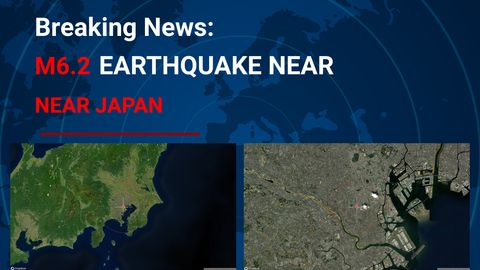
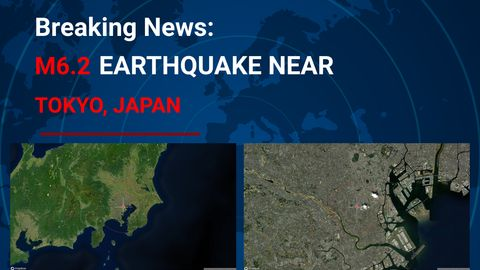
Update newsletter sample map image to Tokyo, Japan

Changed region(s): [[0.0625, 0.3556, 0.375, 0.4444]]

diff --git a/index.html b/index.html
@@ -20062,7 +20062,7 @@
                 const estNow = new Date(now.getTime() + (now.getTimezoneOffset() * 60000) + (estOffset * 60000));
                 
                 // Calculate target date: one week from last git push (December 23, 2025) at 7:45 PM EST
-                const lastPushDate = new Date('2026-02-18T19:45:00-05:00'); // February 18, 2026 7:45 PM EST // February 18, 2026 7:45 PM EST // February 18, 2026 7:45 PM EST // February 18, 2026 7:45 PM EST // February 18, 2026 7:45 PM EST // February 18, 2026 7:45 PM EST // February 18, 2026 7:45 PM EST // February 18, 2026 7:45 PM EST // February 18, 2026 7:45 PM EST // February 18, 2026 7:45 PM EST // February 18, 2026 7:45 PM EST // February 16, 2026 7:45 PM EST // February 16, 2026 7:45 PM EST // February 16, 2026 7:45 PM EST // February 1, 2026 7:45 PM EST // February 1, 2026 7:45 PM EST // February 1, 2026 7:45 PM EST // February 1, 2026 7:45 PM EST // February 1, 2026 7:45 PM EST // February 1, 2026 7:45 PM EST // February 1, 2026 7:45 PM EST // February 1, 2026 7:45 PM EST // February 1, 2026 7:45 PM EST // January 15, 2026 7:45 PM EST // January 15, 2026 7:45 PM EST // January 15, 2026 7:45 PM EST // January 15, 2026 7:45 PM EST // January 15, 2026 7:45 PM EST // January 15, 2026 7:45 PM EST // January 14, 2026 7:45 PM EST // January 14, 2026 7:45 PM EST // January 14, 2026 7:45 PM EST // January 14, 2026 7:45 PM EST // January 14, 2026 7:45 PM EST // January 14, 2026 7:45 PM EST // January 14, 2026 7:45 PM EST // January 14, 2026 7:45 PM EST // January 14, 2026 7:45 PM EST // January 14, 2026 7:45 PM EST // January 14, 2026 7:45 PM EST // January 12, 2026 7:45 PM EST // January 12, 2026 7:45 PM EST // January 12, 2026 7:45 PM EST // January 12, 2026 7:45 PM EST // January 12, 2026 7:45 PM EST // January 12, 2026 7:45 PM EST // January 12, 2026 7:45 PM EST // January 12, 2026 7:45 PM EST // January 12, 2026 7:45 PM EST // January 12, 2026 7:45 PM EST // January 12, 2026 7:45 PM EST // January 12, 2026 7:45 PM EST // January 12, 2026 7:45 PM EST // January 12, 2026 7:45 PM EST // January 12, 2026 7:45 PM EST // January 12, 2026 7:45 PM EST // January 12, 2026 7:45 PM EST // January 12, 2026 7:45 PM EST // January 11, 2026 7:45 PM EST // January 11, 2026 7:45 PM EST // January 11, 2026 7:45 PM EST // January 11, 2026 7:45 PM EST // January 11, 2026 7:45 PM EST // January 11, 2026 7:45 PM EST // January 11, 2026 7:45 PM EST // January 11, 2026 7:45 PM EST // January 11, 2026 7:45 PM EST // January 11, 2026 7:45 PM EST // January 11, 2026 7:45 PM EST // January 11, 2026 7:45 PM EST // January 11, 2026 7:45 PM EST // January 11, 2026 7:45 PM EST // January 11, 2026 7:45 PM EST // January 11, 2026 7:45 PM EST // January 11, 2026 7:45 PM EST // January 11, 2026 7:45 PM EST // January 11, 2026 7:45 PM EST // January 11, 2026 7:45 PM EST // January 11, 2026 7:45 PM EST // January 11, 2026 7:45 PM EST // January 11, 2026 7:45 PM EST // January 11, 2026 7:45 PM EST // January 11, 2026 7:45 PM EST // January 10, 2026 7:45 PM EST // January 10, 2026 7:45 PM EST // January 10, 2026 7:45 PM EST // January 10, 2026 7:45 PM EST // January 10, 2026 7:45 PM EST // January 10, 2026 7:45 PM EST // January 10, 2026 7:45 PM EST // January 10, 2026 7:45 PM EST // January 10, 2026 7:45 PM EST // January 10, 2026 7:45 PM EST // January 10, 2026 7:45 PM EST // January 10, 2026 7:45 PM EST // January 10, 2026 7:45 PM EST // January 10, 2026 7:45 PM EST // January 10, 2026 7:45 PM EST // January 10, 2026 7:45 PM EST // January 10, 2026 7:45 PM EST // January 10, 2026 7:45 PM EST // January 10, 2026 7:45 PM EST // January 10, 2026 7:45 PM EST // January 10, 2026 7:45 PM EST // January 10, 2026 7:45 PM EST // January 10, 2026 7:45 PM EST // January 9, 2026 7:45 PM EST // January 5, 2026 7:45 PM EST // January 5, 2026 7:45 PM EST // January 5, 2026 7:45 PM EST // January 5, 2026 7:45 PM EST // January 5, 2026 7:45 PM EST // January 5, 2026 7:45 PM EST // January 5, 2026 7:45 PM EST // January 5, 2026 7:45 PM EST // January 5, 2026 7:45 PM EST // January 5, 2026 7:45 PM EST // January 5, 2026 7:45 PM EST // January 5, 2026 7:45 PM EST // January 5, 2026 7:45 PM EST // January 5, 2026 7:45 PM EST // January 4, 2026 7:45 PM EST // January 4, 2026 7:45 PM EST // January 4, 2026 7:45 PM EST // January 4, 2026 7:45 PM EST // January 4, 2026 7:45 PM EST // January 4, 2026 7:45 PM EST // January 4, 2026 7:45 PM EST // January 4, 2026 7:45 PM EST // January 4, 2026 7:45 PM EST // January 4, 2026 7:45 PM EST // January 4, 2026 7:45 PM EST // January 4, 2026 7:45 PM EST // January 4, 2026 7:45 PM EST // January 4, 2026 7:45 PM EST // January 4, 2026 7:45 PM EST // January 4, 2026 7:45 PM EST // January 4, 2026 7:45 PM EST // January 4, 2026 7:45 PM EST // January 4, 2026 7:45 PM EST // January 4, 2026 7:45 PM EST // January 4, 2026 7:45 PM EST // January 4, 2026 7:45 PM EST // January 4, 2026 7:45 PM EST // January 4, 2026 7:45 PM EST // January 4, 2026 7:45 PM EST // January 4, 2026 7:45 PM EST // January 4, 2026 7:45 PM EST // January 4, 2026 7:45 PM EST // January 4, 2026 7:45 PM EST // January 4, 2026 7:45 PM EST // January 4, 2026 7:45 PM EST // January 4, 2026 7:45 PM EST // January 4, 2026 7:45 PM EST // January 4, 2026 7:45 PM EST // January 4, 2026 7:45 PM EST // January 4, 2026 7:45 PM EST // January 4, 2026 7:45 PM EST // January 4, 2026 7:45 PM EST // January 4, 2026 7:45 PM EST // January 4, 2026 7:45 PM EST // January 4, 2026 7:45 PM EST // January 4, 2026 7:45 PM EST // January 4, 2026 7:45 PM EST // January 4, 2026 7:45 PM EST // January 4, 2026 7:45 PM EST // January 4, 2026 7:45 PM EST // January 4, 2026 7:45 PM EST // January 3, 2026 7:45 PM EST // January 3, 2026 7:45 PM EST // January 3, 2026 7:45 PM EST // January 3, 2026 7:45 PM EST // January 3, 2026 7:45 PM EST // January 3, 2026 7:45 PM EST // January 3, 2026 7:45 PM EST // January 3, 2026 7:45 PM EST // January 3, 2026 7:45 PM EST // January 3, 2026 7:45 PM EST // January 3, 2026 7:45 PM EST // January 3, 2026 7:45 PM EST // January 3, 2026 7:45 PM EST // January 3, 2026 7:45 PM EST // January 3, 2026 7:45 PM EST // January 3, 2026 7:45 PM EST // January 3, 2026 7:45 PM EST // January 3, 2026 7:45 PM EST // January 3, 2026 7:45 PM EST // January 3, 2026 7:45 PM EST // January 3, 2026 7:45 PM EST // January 3, 2026 7:45 PM EST // January 3, 2026 7:45 PM EST // January 3, 2026 7:45 PM EST // January 3, 2026 7:45 PM EST // January 3, 2026 7:45 PM EST // January 2, 2026 7:45 PM EST // January 2, 2026 7:45 PM EST // January 2, 2026 7:45 PM EST // January 2, 2026 7:45 PM EST // January 2, 2026 7:45 PM EST // January 2, 2026 7:45 PM EST // January 2, 2026 7:45 PM EST // January 2, 2026 7:45 PM EST // January 2, 2026 7:45 PM EST // December 25, 2025 7:45 PM EST // December 25, 2025 7:45 PM EST // December 25, 2025 7:45 PM EST // December 25, 2025 7:45 PM EST // December 25, 2025 7:45 PM EST // December 25, 2025 7:45 PM EST // December 25, 2025 7:45 PM EST // December 25, 2025 7:45 PM EST // December 25, 2025 7:45 PM EST // December 25, 2025 7:45 PM EST // December 25, 2025 7:45 PM EST // December 25, 2025 7:45 PM EST // December 25, 2025 7:45 PM EST // December 25, 2025 7:45 PM EST // December 25, 2025 7:45 PM EST // December 25, 2025 7:45 PM EST // December 25, 2025 7:45 PM EST // December 25, 2025 7:45 PM EST // December 25, 2025 7:45 PM EST // December 25, 2025 7:45 PM EST // December 25, 2025 7:45 PM EST // December 25, 2025 7:45 PM EST // December 25, 2025 7:45 PM EST // December 25, 2025 7:45 PM EST // December 25, 2025 7:45 PM EST // December 25, 2025 7:45 PM EST // December 25, 2025 7:45 PM EST // December 25, 2025 7:45 PM EST // December 25, 2025 7:45 PM EST // December 25, 2025 7:45 PM EST // December 25, 2025 7:45 PM EST // December 25, 2025 7:45 PM EST // December 25, 2025 7:45 PM EST // December 25, 2025 7:45 PM EST // December 24, 2025 7:45 PM EST // December 24, 2025 7:45 PM EST // December 24, 2025 7:45 PM EST // December 24, 2025 7:45 PM EST // December 24, 2025 7:45 PM EST // December 24, 2025 7:45 PM EST // December 24, 2025 7:45 PM EST // December 24, 2025 7:45 PM EST // December 24, 2025 7:45 PM EST // December 24, 2025 7:45 PM EST // December 24, 2025 7:45 PM EST // December 24, 2025 7:45 PM EST // December 24, 2025 7:45 PM EST // December 24, 2025 7:45 PM EST // December 24, 2025 7:45 PM EST // December 24, 2025 7:45 PM EST // December 24, 2025 7:45 PM EST // December 24, 2025 7:45 PM EST // December 24, 2025 7:45 PM EST // December 24, 2025 7:45 PM EST // December 24, 2025 7:45 PM EST // December 24, 2025 7:45 PM EST // December 24, 2025 7:45 PM EST // December 24, 2025 7:45 PM EST // December 24, 2025 7:45 PM EST // December 23, 2025 7:45 PM EST // December 23, 2025 7:45 PM EST // December 23, 2025 7:45 PM EST // December 23, 2025 7:45 PM EST // December 23, 2025 7:45 PM EST // December 23, 2025 7:45 PM EST // December 23, 2025 7:45 PM EST // December 23, 2025 7:45 PM EST // December 23, 2025 7:45 PM EST // December 23, 2025 7:45 PM EST
+                const lastPushDate = new Date('2026-02-18T19:45:00-05:00'); // February 18, 2026 7:45 PM EST // February 18, 2026 7:45 PM EST // February 18, 2026 7:45 PM EST // February 18, 2026 7:45 PM EST // February 18, 2026 7:45 PM EST // February 18, 2026 7:45 PM EST // February 18, 2026 7:45 PM EST // February 18, 2026 7:45 PM EST // February 18, 2026 7:45 PM EST // February 18, 2026 7:45 PM EST // February 18, 2026 7:45 PM EST // February 18, 2026 7:45 PM EST // February 16, 2026 7:45 PM EST // February 16, 2026 7:45 PM EST // February 16, 2026 7:45 PM EST // February 1, 2026 7:45 PM EST // February 1, 2026 7:45 PM EST // February 1, 2026 7:45 PM EST // February 1, 2026 7:45 PM EST // February 1, 2026 7:45 PM EST // February 1, 2026 7:45 PM EST // February 1, 2026 7:45 PM EST // February 1, 2026 7:45 PM EST // February 1, 2026 7:45 PM EST // January 15, 2026 7:45 PM EST // January 15, 2026 7:45 PM EST // January 15, 2026 7:45 PM EST // January 15, 2026 7:45 PM EST // January 15, 2026 7:45 PM EST // January 15, 2026 7:45 PM EST // January 14, 2026 7:45 PM EST // January 14, 2026 7:45 PM EST // January 14, 2026 7:45 PM EST // January 14, 2026 7:45 PM EST // January 14, 2026 7:45 PM EST // January 14, 2026 7:45 PM EST // January 14, 2026 7:45 PM EST // January 14, 2026 7:45 PM EST // January 14, 2026 7:45 PM EST // January 14, 2026 7:45 PM EST // January 14, 2026 7:45 PM EST // January 12, 2026 7:45 PM EST // January 12, 2026 7:45 PM EST // January 12, 2026 7:45 PM EST // January 12, 2026 7:45 PM EST // January 12, 2026 7:45 PM EST // January 12, 2026 7:45 PM EST // January 12, 2026 7:45 PM EST // January 12, 2026 7:45 PM EST // January 12, 2026 7:45 PM EST // January 12, 2026 7:45 PM EST // January 12, 2026 7:45 PM EST // January 12, 2026 7:45 PM EST // January 12, 2026 7:45 PM EST // January 12, 2026 7:45 PM EST // January 12, 2026 7:45 PM EST // January 12, 2026 7:45 PM EST // January 12, 2026 7:45 PM EST // January 12, 2026 7:45 PM EST // January 11, 2026 7:45 PM EST // January 11, 2026 7:45 PM EST // January 11, 2026 7:45 PM EST // January 11, 2026 7:45 PM EST // January 11, 2026 7:45 PM EST // January 11, 2026 7:45 PM EST // January 11, 2026 7:45 PM EST // January 11, 2026 7:45 PM EST // January 11, 2026 7:45 PM EST // January 11, 2026 7:45 PM EST // January 11, 2026 7:45 PM EST // January 11, 2026 7:45 PM EST // January 11, 2026 7:45 PM EST // January 11, 2026 7:45 PM EST // January 11, 2026 7:45 PM EST // January 11, 2026 7:45 PM EST // January 11, 2026 7:45 PM EST // January 11, 2026 7:45 PM EST // January 11, 2026 7:45 PM EST // January 11, 2026 7:45 PM EST // January 11, 2026 7:45 PM EST // January 11, 2026 7:45 PM EST // January 11, 2026 7:45 PM EST // January 11, 2026 7:45 PM EST // January 11, 2026 7:45 PM EST // January 10, 2026 7:45 PM EST // January 10, 2026 7:45 PM EST // January 10, 2026 7:45 PM EST // January 10, 2026 7:45 PM EST // January 10, 2026 7:45 PM EST // January 10, 2026 7:45 PM EST // January 10, 2026 7:45 PM EST // January 10, 2026 7:45 PM EST // January 10, 2026 7:45 PM EST // January 10, 2026 7:45 PM EST // January 10, 2026 7:45 PM EST // January 10, 2026 7:45 PM EST // January 10, 2026 7:45 PM EST // January 10, 2026 7:45 PM EST // January 10, 2026 7:45 PM EST // January 10, 2026 7:45 PM EST // January 10, 2026 7:45 PM EST // January 10, 2026 7:45 PM EST // January 10, 2026 7:45 PM EST // January 10, 2026 7:45 PM EST // January 10, 2026 7:45 PM EST // January 10, 2026 7:45 PM EST // January 10, 2026 7:45 PM EST // January 9, 2026 7:45 PM EST // January 5, 2026 7:45 PM EST // January 5, 2026 7:45 PM EST // January 5, 2026 7:45 PM EST // January 5, 2026 7:45 PM EST // January 5, 2026 7:45 PM EST // January 5, 2026 7:45 PM EST // January 5, 2026 7:45 PM EST // January 5, 2026 7:45 PM EST // January 5, 2026 7:45 PM EST // January 5, 2026 7:45 PM EST // January 5, 2026 7:45 PM EST // January 5, 2026 7:45 PM EST // January 5, 2026 7:45 PM EST // January 5, 2026 7:45 PM EST // January 4, 2026 7:45 PM EST // January 4, 2026 7:45 PM EST // January 4, 2026 7:45 PM EST // January 4, 2026 7:45 PM EST // January 4, 2026 7:45 PM EST // January 4, 2026 7:45 PM EST // January 4, 2026 7:45 PM EST // January 4, 2026 7:45 PM EST // January 4, 2026 7:45 PM EST // January 4, 2026 7:45 PM EST // January 4, 2026 7:45 PM EST // January 4, 2026 7:45 PM EST // January 4, 2026 7:45 PM EST // January 4, 2026 7:45 PM EST // January 4, 2026 7:45 PM EST // January 4, 2026 7:45 PM EST // January 4, 2026 7:45 PM EST // January 4, 2026 7:45 PM EST // January 4, 2026 7:45 PM EST // January 4, 2026 7:45 PM EST // January 4, 2026 7:45 PM EST // January 4, 2026 7:45 PM EST // January 4, 2026 7:45 PM EST // January 4, 2026 7:45 PM EST // January 4, 2026 7:45 PM EST // January 4, 2026 7:45 PM EST // January 4, 2026 7:45 PM EST // January 4, 2026 7:45 PM EST // January 4, 2026 7:45 PM EST // January 4, 2026 7:45 PM EST // January 4, 2026 7:45 PM EST // January 4, 2026 7:45 PM EST // January 4, 2026 7:45 PM EST // January 4, 2026 7:45 PM EST // January 4, 2026 7:45 PM EST // January 4, 2026 7:45 PM EST // January 4, 2026 7:45 PM EST // January 4, 2026 7:45 PM EST // January 4, 2026 7:45 PM EST // January 4, 2026 7:45 PM EST // January 4, 2026 7:45 PM EST // January 4, 2026 7:45 PM EST // January 4, 2026 7:45 PM EST // January 4, 2026 7:45 PM EST // January 4, 2026 7:45 PM EST // January 4, 2026 7:45 PM EST // January 4, 2026 7:45 PM EST // January 3, 2026 7:45 PM EST // January 3, 2026 7:45 PM EST // January 3, 2026 7:45 PM EST // January 3, 2026 7:45 PM EST // January 3, 2026 7:45 PM EST // January 3, 2026 7:45 PM EST // January 3, 2026 7:45 PM EST // January 3, 2026 7:45 PM EST // January 3, 2026 7:45 PM EST // January 3, 2026 7:45 PM EST // January 3, 2026 7:45 PM EST // January 3, 2026 7:45 PM EST // January 3, 2026 7:45 PM EST // January 3, 2026 7:45 PM EST // January 3, 2026 7:45 PM EST // January 3, 2026 7:45 PM EST // January 3, 2026 7:45 PM EST // January 3, 2026 7:45 PM EST // January 3, 2026 7:45 PM EST // January 3, 2026 7:45 PM EST // January 3, 2026 7:45 PM EST // January 3, 2026 7:45 PM EST // January 3, 2026 7:45 PM EST // January 3, 2026 7:45 PM EST // January 3, 2026 7:45 PM EST // January 3, 2026 7:45 PM EST // January 2, 2026 7:45 PM EST // January 2, 2026 7:45 PM EST // January 2, 2026 7:45 PM EST // January 2, 2026 7:45 PM EST // January 2, 2026 7:45 PM EST // January 2, 2026 7:45 PM EST // January 2, 2026 7:45 PM EST // January 2, 2026 7:45 PM EST // January 2, 2026 7:45 PM EST // December 25, 2025 7:45 PM EST // December 25, 2025 7:45 PM EST // December 25, 2025 7:45 PM EST // December 25, 2025 7:45 PM EST // December 25, 2025 7:45 PM EST // December 25, 2025 7:45 PM EST // December 25, 2025 7:45 PM EST // December 25, 2025 7:45 PM EST // December 25, 2025 7:45 PM EST // December 25, 2025 7:45 PM EST // December 25, 2025 7:45 PM EST // December 25, 2025 7:45 PM EST // December 25, 2025 7:45 PM EST // December 25, 2025 7:45 PM EST // December 25, 2025 7:45 PM EST // December 25, 2025 7:45 PM EST // December 25, 2025 7:45 PM EST // December 25, 2025 7:45 PM EST // December 25, 2025 7:45 PM EST // December 25, 2025 7:45 PM EST // December 25, 2025 7:45 PM EST // December 25, 2025 7:45 PM EST // December 25, 2025 7:45 PM EST // December 25, 2025 7:45 PM EST // December 25, 2025 7:45 PM EST // December 25, 2025 7:45 PM EST // December 25, 2025 7:45 PM EST // December 25, 2025 7:45 PM EST // December 25, 2025 7:45 PM EST // December 25, 2025 7:45 PM EST // December 25, 2025 7:45 PM EST // December 25, 2025 7:45 PM EST // December 25, 2025 7:45 PM EST // December 25, 2025 7:45 PM EST // December 24, 2025 7:45 PM EST // December 24, 2025 7:45 PM EST // December 24, 2025 7:45 PM EST // December 24, 2025 7:45 PM EST // December 24, 2025 7:45 PM EST // December 24, 2025 7:45 PM EST // December 24, 2025 7:45 PM EST // December 24, 2025 7:45 PM EST // December 24, 2025 7:45 PM EST // December 24, 2025 7:45 PM EST // December 24, 2025 7:45 PM EST // December 24, 2025 7:45 PM EST // December 24, 2025 7:45 PM EST // December 24, 2025 7:45 PM EST // December 24, 2025 7:45 PM EST // December 24, 2025 7:45 PM EST // December 24, 2025 7:45 PM EST // December 24, 2025 7:45 PM EST // December 24, 2025 7:45 PM EST // December 24, 2025 7:45 PM EST // December 24, 2025 7:45 PM EST // December 24, 2025 7:45 PM EST // December 24, 2025 7:45 PM EST // December 24, 2025 7:45 PM EST // December 24, 2025 7:45 PM EST // December 23, 2025 7:45 PM EST // December 23, 2025 7:45 PM EST // December 23, 2025 7:45 PM EST // December 23, 2025 7:45 PM EST // December 23, 2025 7:45 PM EST // December 23, 2025 7:45 PM EST // December 23, 2025 7:45 PM EST // December 23, 2025 7:45 PM EST // December 23, 2025 7:45 PM EST // December 23, 2025 7:45 PM EST
                 const oneWeekInMs = 7 * 24 * 60 * 60 * 1000; // 7 days in milliseconds
                 const target = new Date(lastPushDate.getTime() + oneWeekInMs); // December 30, 2025 7:45 PM EST
                 
